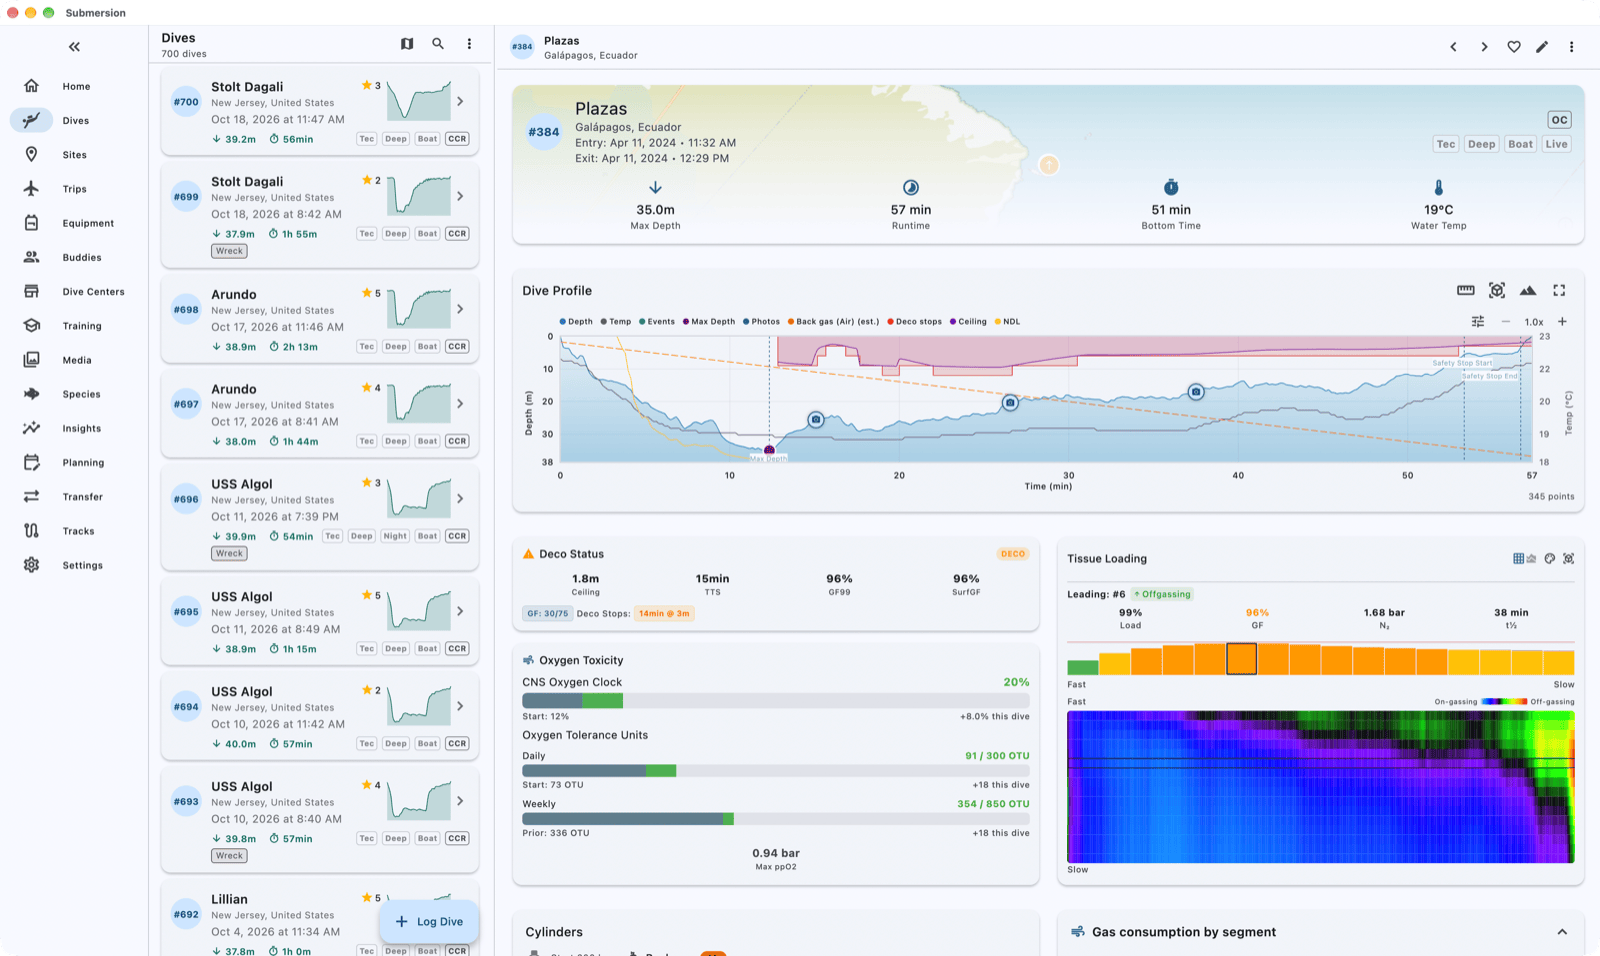
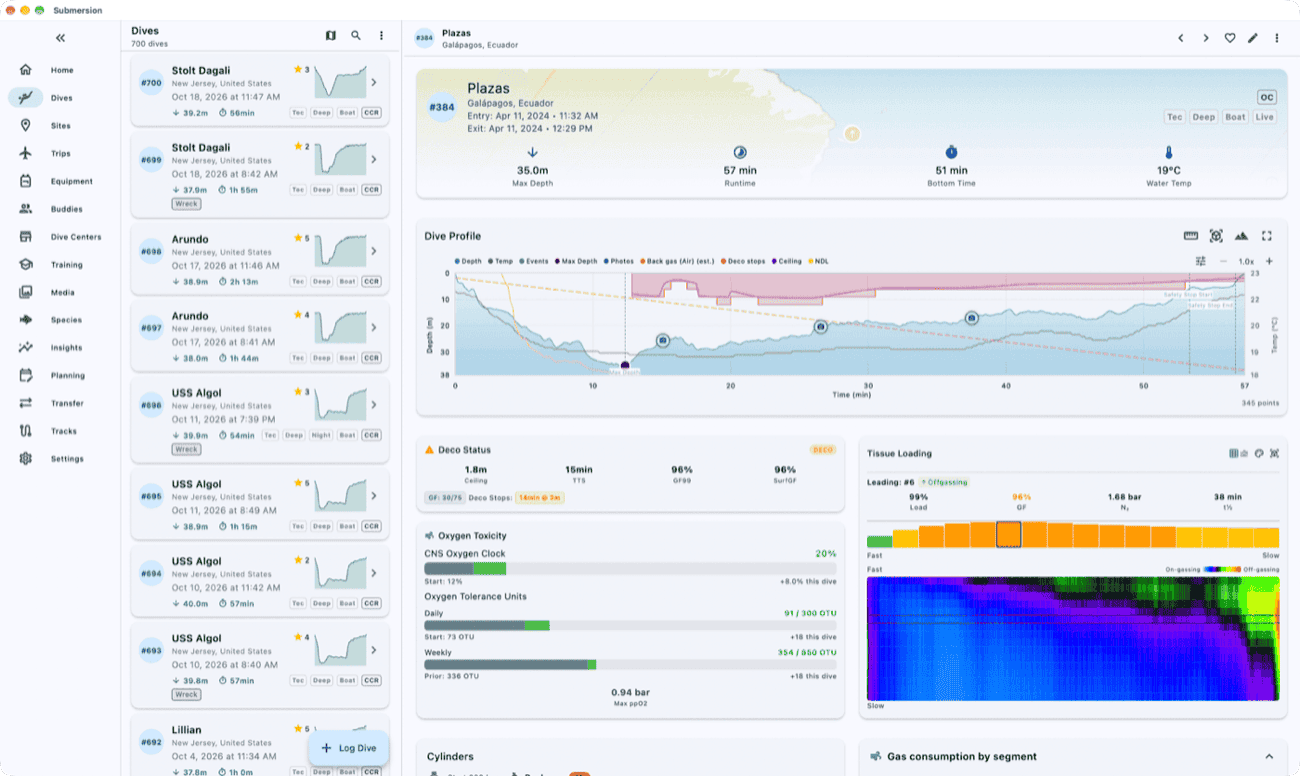
docs(user-guide): cloud import screenshots
The Transfer Cloud cards and the empty sign-in screens for Garmin
Connect, Suunto and divelogs.de.

diff --git a/docs/user/how-to-move-from-garmin-connect.md b/docs/user/how-to-move-from-garmin-connect.md
@@ -30,7 +30,7 @@ Submersion never stores your Garmin password. It keeps only a sign-in session, s
 1. Open **Transfer** (on a phone it is under **More**).
 2. Choose **Cloud**, then **Garmin**.
 
-<!-- screenshot: images/how-to/move-from-garmin-connect/01-cloud.png: the Transfer Cloud section with the Suunto, Garmin and divelogs.de cards; mac; demo logbook -->
+![The Transfer Cloud section with the Suunto, Garmin and divelogs.de cards](images/how-to/move-from-garmin-connect/01-cloud.png)
 
 ## 2. Sign in
 
@@ -38,7 +38,7 @@ On **Sign in to Garmin Connect**, enter your **Email** and **Password** and tap 
 
 If Garmin sends you a code, **Verification Required** appears. Type the code into **Verification Code** and tap **Verify**.
 
-<!-- screenshot: images/how-to/move-from-garmin-connect/02-sign-in.png: Sign in to Garmin Connect with empty Email and Password fields and the Sign In button; mac; not signed in -->
+![Sign in to Garmin Connect with empty Email and Password fields and the Sign In button](images/how-to/move-from-garmin-connect/02-sign-in.png)
 
 ## 3. Choose your dives
 

diff --git a/docs/user/how-to-move-from-divelogs-de.md b/docs/user/how-to-move-from-divelogs-de.md
@@ -31,13 +31,13 @@ Submersion never stores your divelogs.de password. It keeps only a sign-in sessi
 1. Open **Transfer** (on a phone it is under **More**).
 2. Choose **Cloud**, then **divelogs.de**.
 
-<!-- screenshot: images/how-to/move-from-divelogs-de/01-cloud.png: the Transfer Cloud section with the divelogs.de card; mac; demo logbook -->
+![The Transfer Cloud section with the divelogs.de card](images/how-to/move-from-divelogs-de/01-cloud.png)
 
 ## 2. Sign in
 
 On **Sign in to divelogs.de**, enter your **Username** and **Password** and tap **Sign In**.
 
-<!-- screenshot: images/how-to/move-from-divelogs-de/02-sign-in.png: Sign in to divelogs.de with empty Username and Password fields and the Sign In button; mac; not signed in -->
+![Sign in to divelogs.de with empty Username and Password fields and the Sign In button](images/how-to/move-from-divelogs-de/02-sign-in.png)
 
 ## 3. Fetch your logbook
 

diff --git a/docs/user/how-to-move-from-suunto.md b/docs/user/how-to-move-from-suunto.md
@@ -30,13 +30,13 @@ Submersion never stores your Suunto password. It keeps only a sign-in session, s
 1. Open **Transfer** (on a phone it is under **More**).
 2. Choose **Cloud**, then **Suunto**.
 
-<!-- screenshot: images/how-to/move-from-suunto/01-cloud.png: the Transfer Cloud section with the Suunto card; mac; demo logbook -->
+![The Transfer Cloud section with the Suunto card](images/how-to/move-from-suunto/01-cloud.png)
 
 ## 2. Sign in
 
 On **Sign in to Suunto**, enter your **Email** and **Password** and tap **Sign In**.
 
-<!-- screenshot: images/how-to/move-from-suunto/02-sign-in.png: Sign in to Suunto with empty Email and Password fields and the Sign In button; mac; not signed in -->
+![Sign in to Suunto with empty Email and Password fields and the Sign In button](images/how-to/move-from-suunto/02-sign-in.png)
 
 ## 3. Choose your dives
 
